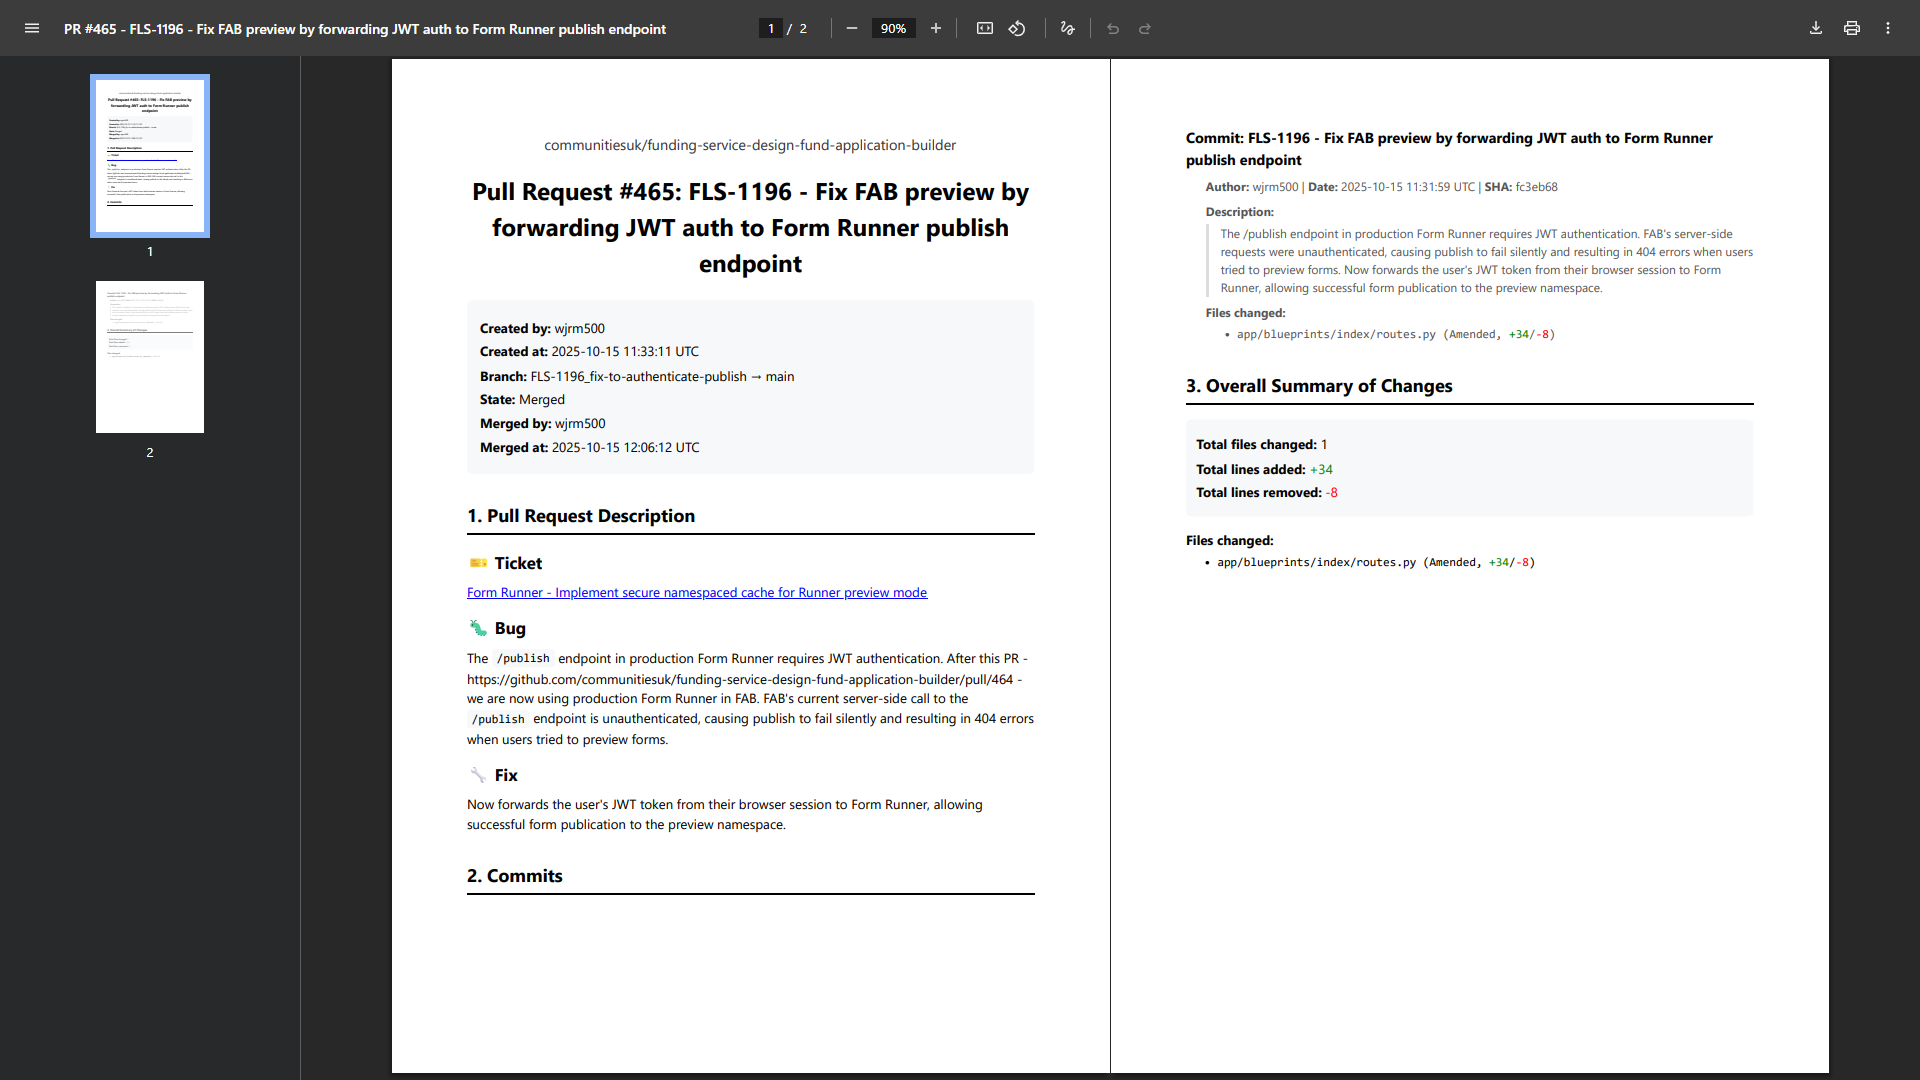
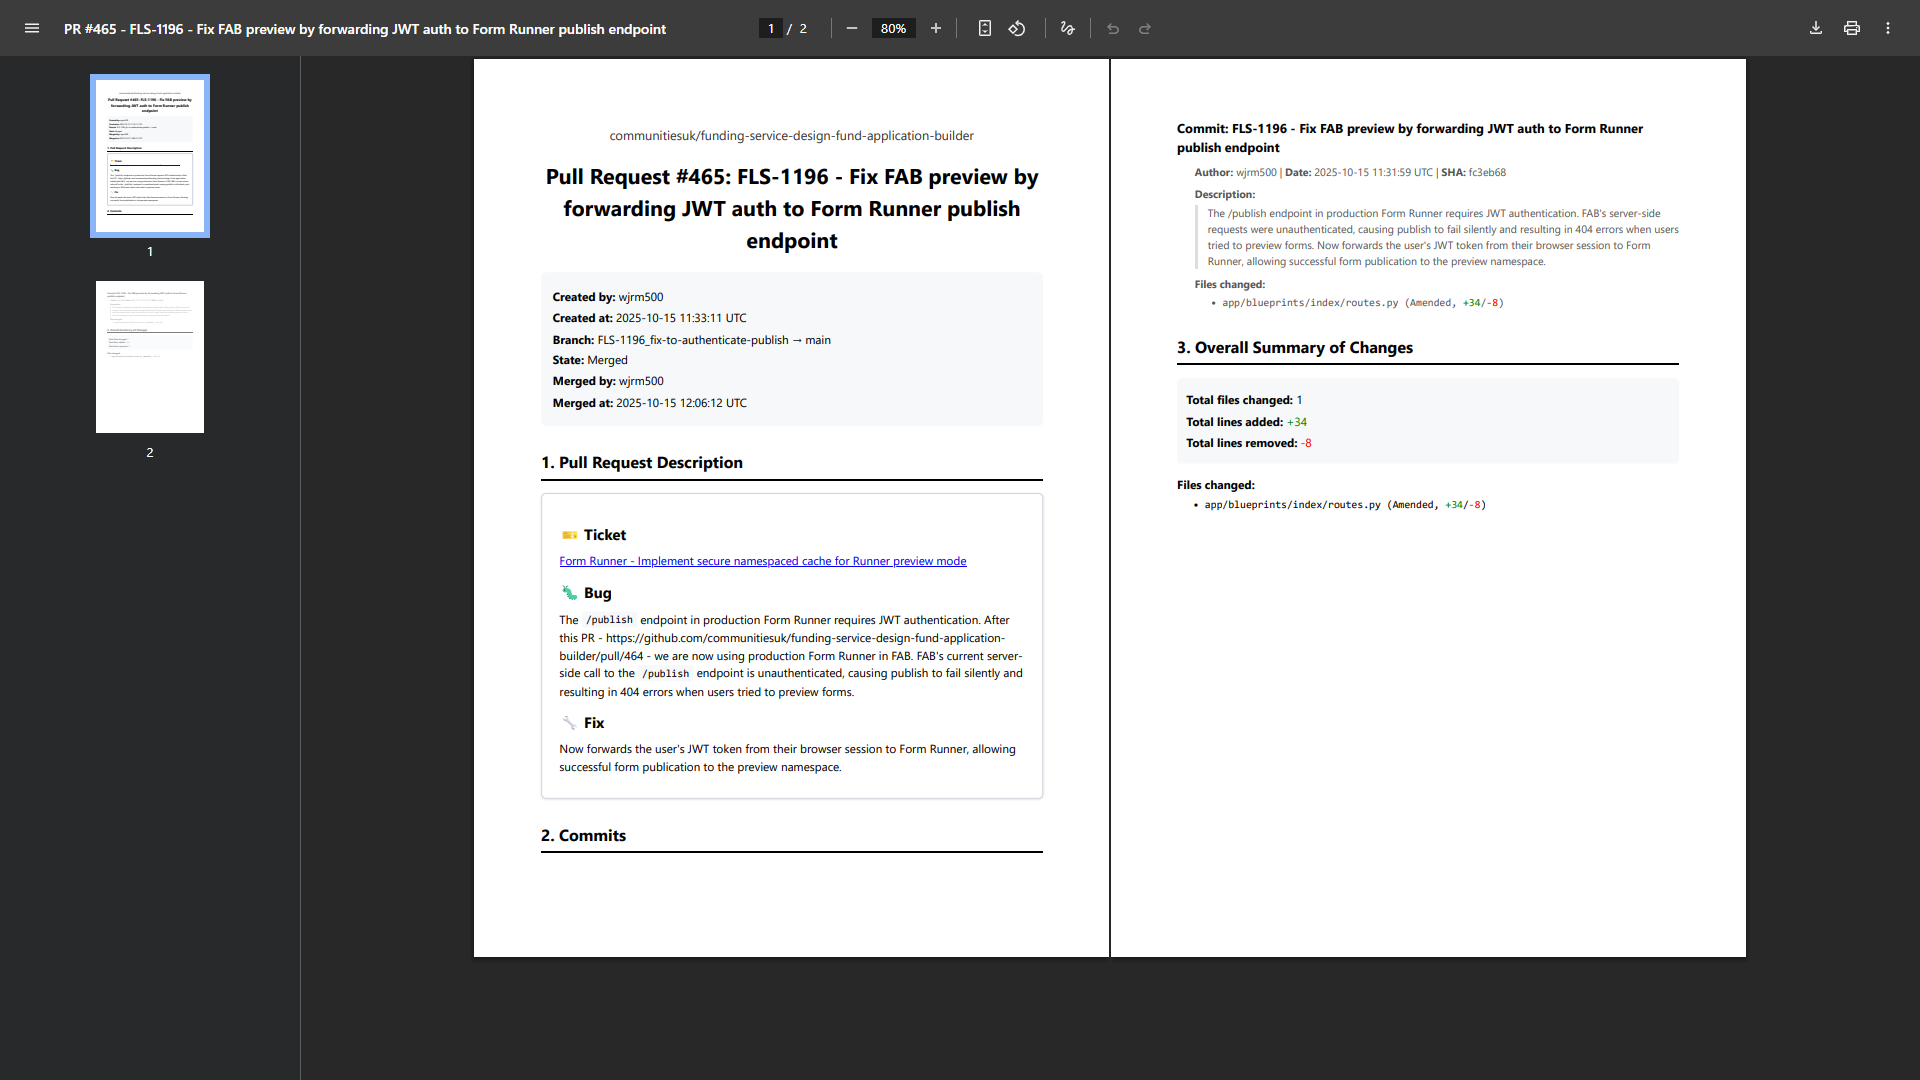
Putting PR description inside a visually distinct box to separate user-provided content from document structure

Changed region(s): [[0.1875, 0.0306, 0.9688, 1.0], [0.0312, 0.1528, 0.0938, 0.1833]]

diff --git a/src/prtopdf/templates/pr_report.html b/src/prtopdf/templates/pr_report.html
@@ -61,34 +61,39 @@
             margin-bottom: 0.5em;
         }
 
-        .description {
+        .description-container {
             margin-bottom: 1.5em;
+            padding: 1.5em;
+            background-color: #ffffff;
+            border: 1px solid #d0d7de;
+            border-radius: 6px;
+            box-shadow: 0 1px 3px rgba(0, 0, 0, 0.12);
         }
 
         /* Markdown content styling */
-        .description h1 { font-size: 18pt; font-weight: bold; margin: 1em 0 0.5em 0; }
-        .description h2 { font-size: 16pt; font-weight: bold; margin: 1em 0 0.5em 0; }
-        .description h3 { font-size: 14pt; font-weight: bold; margin: 0.8em 0 0.4em 0; }
-        .description h4 { font-size: 12pt; font-weight: bold; margin: 0.6em 0 0.3em 0; }
-        .description h5 { font-size: 11pt; font-weight: bold; margin: 0.5em 0 0.3em 0; }
-        .description h6 { font-size: 11pt; font-weight: bold; margin: 0.5em 0 0.3em 0; color: #666; }
+        .description-container h1 { font-size: 18pt; font-weight: bold; margin: 1em 0 0.5em 0; }
+        .description-container h2 { font-size: 16pt; font-weight: bold; margin: 1em 0 0.5em 0; }
+        .description-container h3 { font-size: 14pt; font-weight: bold; margin: 0.8em 0 0.4em 0; }
+        .description-container h4 { font-size: 12pt; font-weight: bold; margin: 0.6em 0 0.3em 0; }
+        .description-container h5 { font-size: 11pt; font-weight: bold; margin: 0.5em 0 0.3em 0; }
+        .description-container h6 { font-size: 11pt; font-weight: bold; margin: 0.5em 0 0.3em 0; color: #666; }
 
-        .description p {
+        .description-container p {
             margin: 0.5em 0;
             font-size: 11pt;
         }
 
-        .description ul, .description ol {
+        .description-container ul, .description-container ol {
             margin: 0.5em 0;
             padding-left: 2em;
             font-size: 11pt;
         }
 
-        .description li {
+        .description-container li {
             margin: 0.3em 0;
         }
 
-        .description code {
+        .description-container code {
             background-color: #f6f8fa;
             padding: 0.2em 0.4em;
             border-radius: 3px;
@@ -96,7 +101,7 @@
             font-size: 10pt;
         }
 
-        .description pre {
+        .description-container pre {
             background-color: #f6f8fa;
             padding: 1em;
             border-radius: 6px;
@@ -105,12 +110,12 @@
             font-size: 10pt;
         }
 
-        .description pre code {
+        .description-container pre code {
             background-color: transparent;
             padding: 0;
         }
 
-        .description blockquote {
+        .description-container blockquote {
             border-left: 4px solid #ddd;
             margin: 1em 0;
             padding-left: 1em;
@@ -118,30 +123,37 @@
             font-size: 11pt;
         }
 
-        .description table {
+        .description-container table {
             border-collapse: collapse;
             margin: 1em 0;
             width: 100%;
             font-size: 11pt;
         }
 
-        .description table th,
-        .description table td {
+        .description-container table th,
+        .description-container table td {
             border: 1px solid #ddd;
             padding: 0.5em;
             text-align: left;
         }
 
-        .description table th {
+        .description-container table th {
             background-color: #f6f8fa;
             font-weight: bold;
         }
 
         /* Image constraints - keep images within page margins */
-        .description img {
+        .description-container img {
             max-width: 100%;
             height: auto;
             display: block;
+            margin: 1em 0;
+        }
+
+        /* Horizontal rules inside description should look different from section headers */
+        .description-container hr {
+            border: none;
+            border-top: 1px solid #d0d7de;
             margin: 1em 0;
         }
 
@@ -239,7 +251,7 @@
     </div>
 
     <h2>1. Pull Request Description</h2>
-    <div class="description">
+    <div class="description-container">
         {{ description_html|safe }}
     </div>
 
